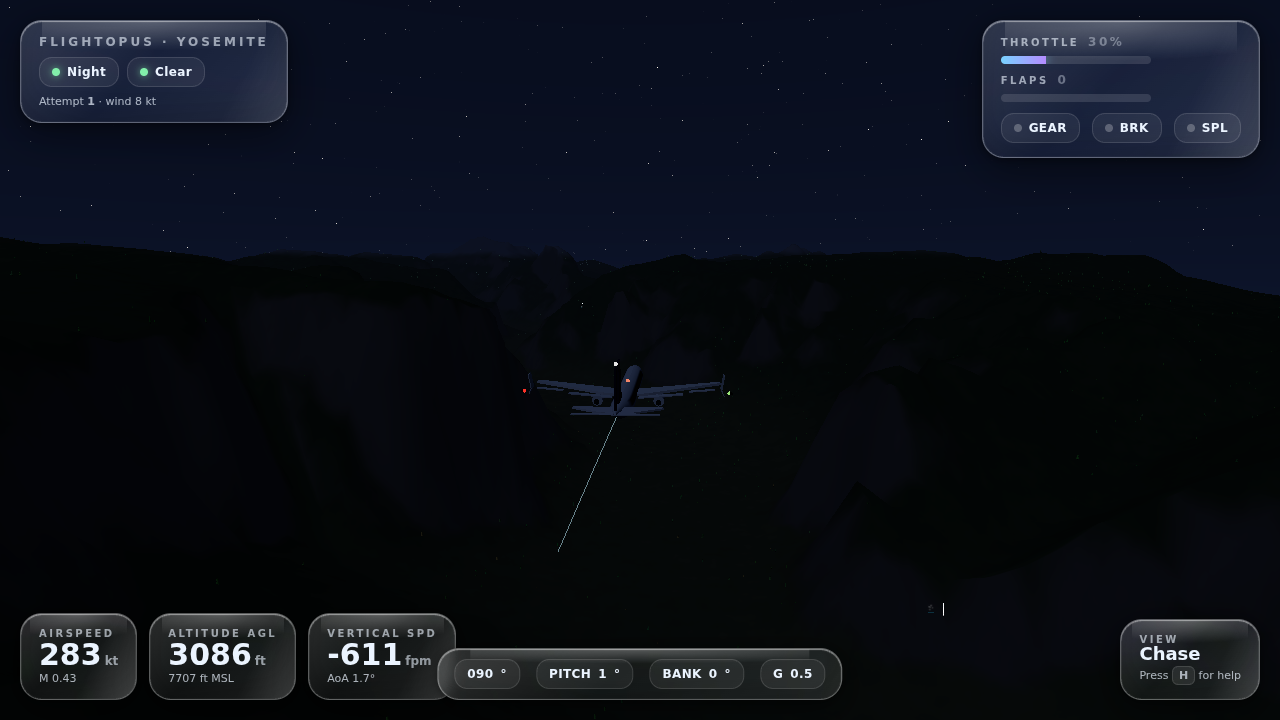
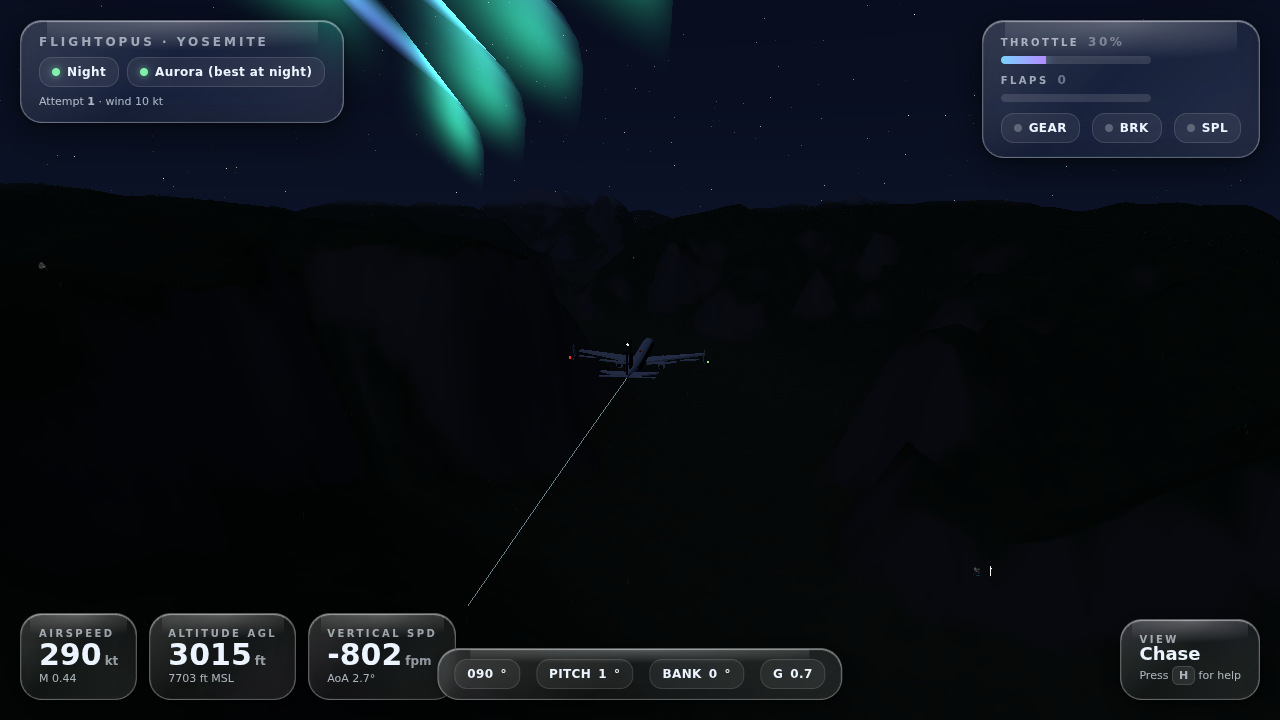
Polish: clean forward cockpit view, robust high-quality screenshot tests, refreshed docs
- Cockpit camera is now a clean immersive forward nose view (rolls with
  the jet) instead of clipping into the fuselage.
- Headless harness: --preview to test the production bundle, longer
  ready/screenshot timeouts so q=high (180k trees) renders under
  SwiftShader, and an --evals hook for scripted crash/landing tests.
- Updated hero images (dense high-quality Tunnel View, aurora night).

https://claude.ai/code/session_01DqQrhBLdEdxYP6Qsv4nApf

diff --git a/src/ui/cameras.js b/src/ui/cameras.js
@@ -38,11 +38,11 @@ export class CameraRig {
       desired.copy(fm.pos).addScaledVector(fwd, -55).addScaledVector(up, 13)
       cam.position.lerp(desired, k)
       cam.lookAt(fm.pos.clone().addScaledVector(fwd, 35))
-    } else if (this.mode === 1) { // cockpit
-      desired.copy(fm.pos).addScaledVector(fwd, 16.5).addScaledVector(up, 1.4)
-      cam.position.lerp(desired, 1 - Math.exp(-dt * 18))
+    } else if (this.mode === 1) { // cockpit / forward nose view (rolls with the jet)
+      desired.copy(fm.pos).addScaledVector(fwd, 24).addScaledVector(up, 0.6)
+      cam.position.lerp(desired, 1 - Math.exp(-dt * 22))
       cam.up.copy(up)
-      cam.lookAt(fm.pos.clone().addScaledVector(fwd, 120).addScaledVector(up, -2))
+      cam.lookAt(fm.pos.clone().addScaledVector(fwd, 240).addScaledVector(up, -8))
     } else if (this.mode === 2) { // wing
       desired.copy(fm.pos).addScaledVector(rgt, 38).addScaledVector(up, 4).addScaledVector(fwd, -4)
       cam.position.lerp(desired, k)